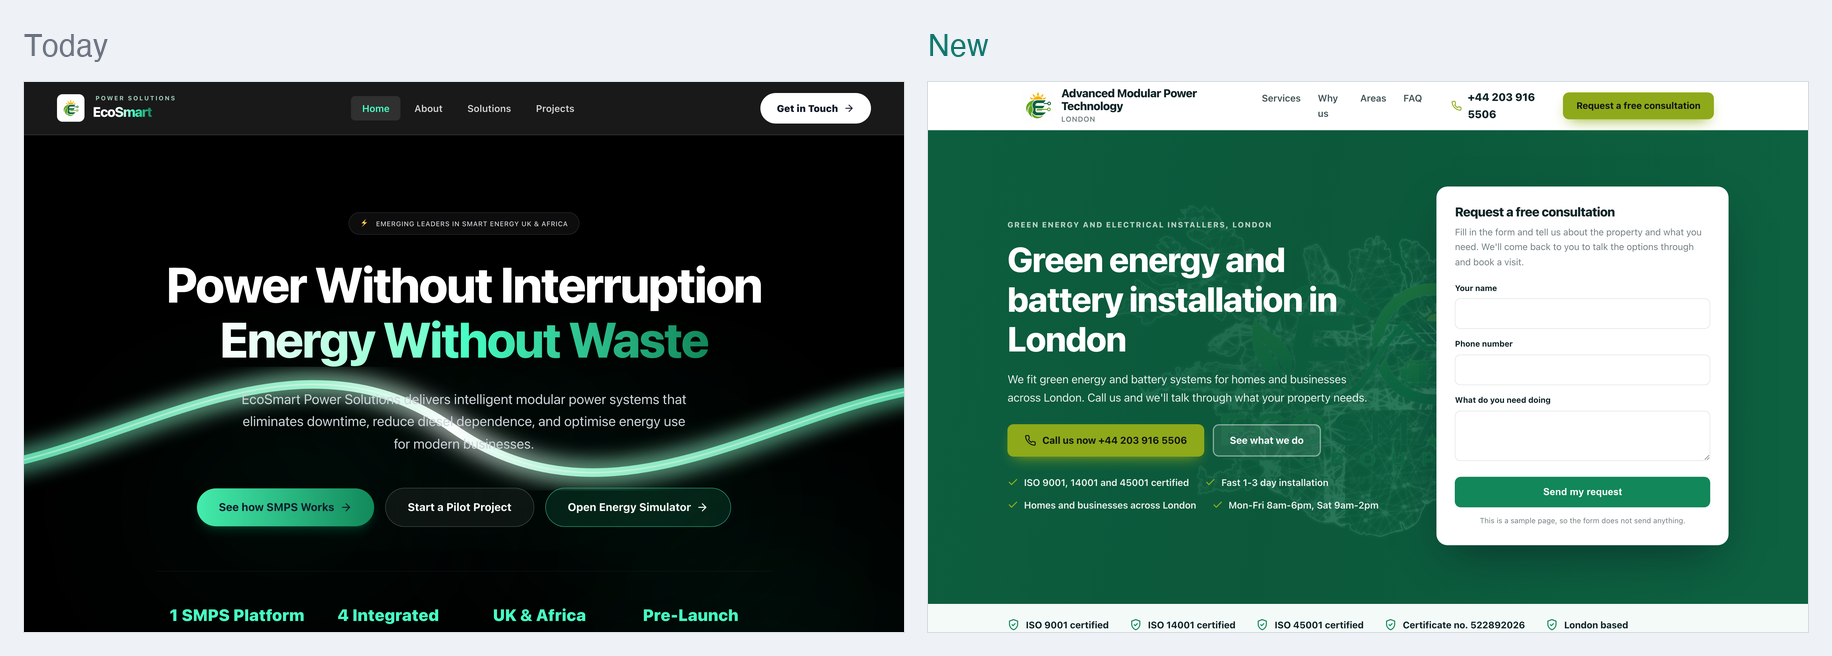
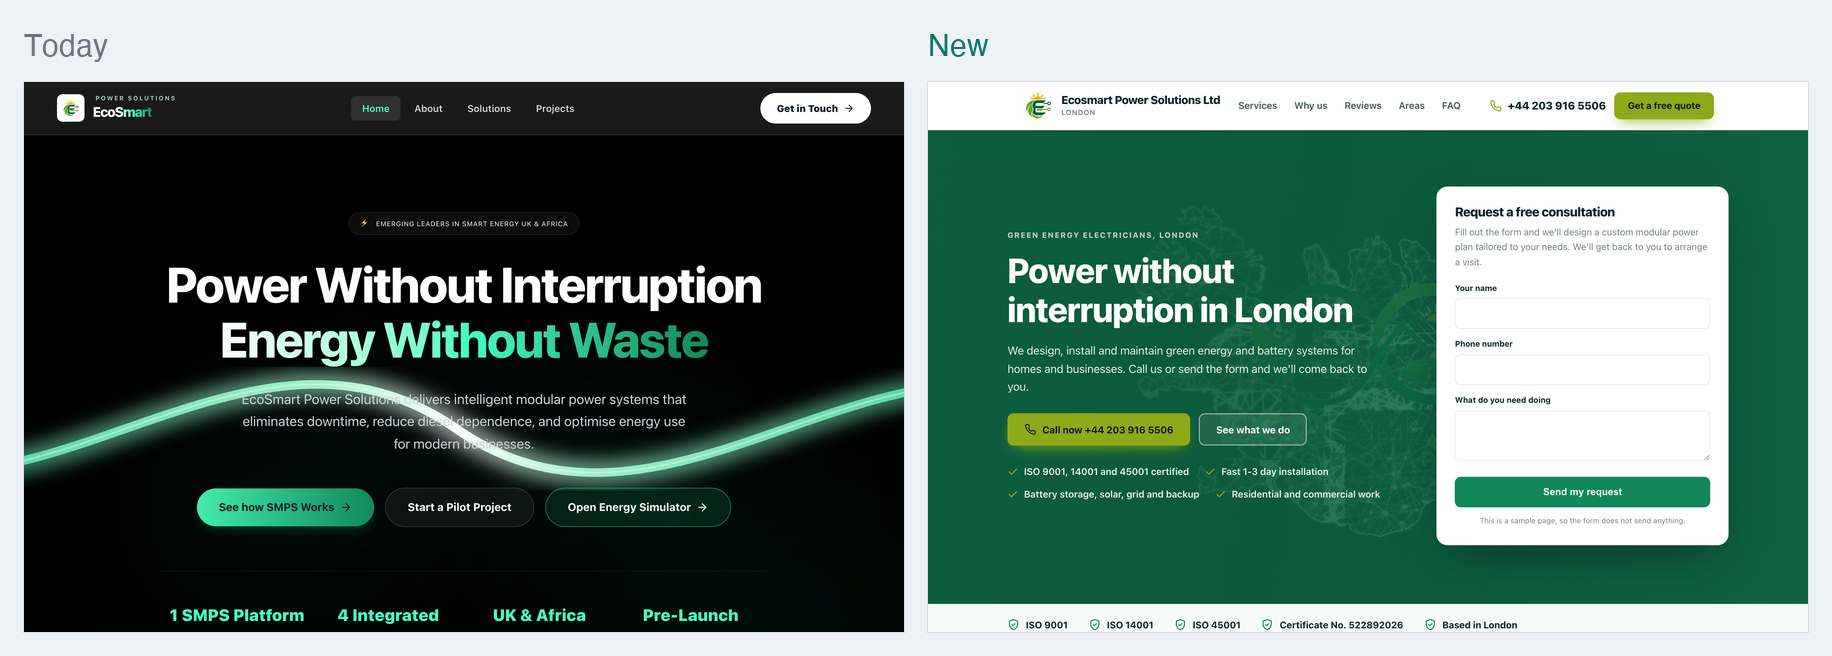
One page sample for Ecosmart Power Solutions Ltd

diff --git a/docs/e1da01168b/index.html b/docs/e1da01168b/index.html
@@ -4,14 +4,14 @@
 <meta charset="utf-8">
 <meta name="viewport" content="width=device-width, initial-scale=1">
 <meta name="robots" content="noindex,nofollow">
-<meta name="aso-build" content="bf8ed9482fcb">
-<title>Green Energy Installers London | EcoSmart Power</title>
-<meta name="description" content="EcoSmart installs green energy and battery systems for homes and businesses across London. ISO certified, with energy audits and maintenance work.">
+<meta name="aso-build" content="e527be55153c">
+<title>Electrical &amp; Green Energy, London | Ecosmart Power</title>
+<meta name="description" content="Ecosmart Power Solutions Ltd installs green energy, battery systems and modular power across London. ISO 9001, 14001 and 45001 certified. Call for a free">
 <link rel="canonical" href="https://markygff.github.io/aso-mockups/e1da01168b/">
 <meta property="og:type" content="website">
-<meta property="og:site_name" content="Advanced Modular Power Technology">
-<meta property="og:title" content="Green Energy Installers London | EcoSmart Power">
-<meta property="og:description" content="EcoSmart installs green energy and battery systems for homes and businesses across London. ISO certified, with energy audits and maintenance work.">
+<meta property="og:site_name" content="Ecosmart Power Solutions Ltd">
+<meta property="og:title" content="Electrical &amp; Green Energy, London | Ecosmart Power">
+<meta property="og:description" content="Ecosmart Power Solutions Ltd installs green energy, battery systems and modular power across London. ISO 9001, 14001 and 45001 certified. Call for a free">
 <meta property="og:url" content="https://markygff.github.io/aso-mockups/e1da01168b/">
 <meta property="og:image" content="img/p07.jpg"><meta name="twitter:card" content="summary_large_image">
 <style>
@@ -268,21 +268,21 @@ p{margin:0}
 <header class="header">
   <div class="wrap header-in">
     <div class="brand">
-<img src="img/logo.jpg" alt="Advanced Modular Power Technology logo">      <div>
-        <div class="brand-name">Advanced Modular Power Technology</div>
+<img src="img/logo.jpg" alt="Ecosmart Power Solutions Ltd logo">      <div>
+        <div class="brand-name">Ecosmart Power Solutions Ltd</div>
 <div class="brand-sub">London</div>      </div>
     </div>
     <nav class="nav">
       <a href="#services">Services</a>
       <a href="#why">Why us</a>
-      <a href="#areas">Areas</a>
+<a href="#reviews">Reviews</a>      <a href="#areas">Areas</a>
       <a href="#faq">FAQ</a>
     </nav>
     <div class="header-cta">
       <a class="tel" href="tel:+442039165506">
         <svg viewBox="0 0 24 24" fill="none" stroke="currentColor" stroke-width="2" stroke-linecap="round" stroke-linejoin="round" aria-hidden="true"><path d="M22 16.9v3a2 2 0 0 1-2.2 2 19.8 19.8 0 0 1-8.6-3.1 19.5 19.5 0 0 1-6-6 19.8 19.8 0 0 1-3.1-8.7A2 2 0 0 1 4.1 2h3a2 2 0 0 1 2 1.7c.1 1 .4 1.9.7 2.8a2 2 0 0 1-.5 2.1L8.1 9.9a16 16 0 0 0 6 6l1.3-1.2a2 2 0 0 1 2.1-.5c.9.3 1.8.6 2.8.7a2 2 0 0 1 1.7 2z"/></svg><span>+44 203 916 5506</span>
       </a>
-      <a class="btn btn-accent" href="#quote">Request a free consultation</a>
+      <a class="btn btn-accent" href="#quote">Get a free quote</a>
     </div>
   </div>
 </header>
@@ -291,19 +291,19 @@ p{margin:0}
   <div class="hero-bg"><img src="img/p07.jpg" alt="Europe Operations" width="1600" height="900"></div>
   <div class="wrap hero-in">
     <div>
-      <p class="eyebrow">Green energy and electrical installers, London</p>
-      <h1>Green energy and battery installation in London</h1>
-      <p class="hero-sub">We fit green energy and battery systems for homes and businesses across London. Call us and we&#39;ll talk through what your property needs.</p>
+      <p class="eyebrow">Green energy electricians, London</p>
+      <h1>Power without interruption in London</h1>
+      <p class="hero-sub">We design, install and maintain green energy and battery systems for homes and businesses. Call us or send the form and we&#39;ll come back to you.</p>
       <div class="hero-actions">
-        <a class="btn btn-accent" href="tel:+442039165506"><svg viewBox="0 0 24 24" fill="none" stroke="currentColor" stroke-width="2" stroke-linecap="round" stroke-linejoin="round" aria-hidden="true"><path d="M22 16.9v3a2 2 0 0 1-2.2 2 19.8 19.8 0 0 1-8.6-3.1 19.5 19.5 0 0 1-6-6 19.8 19.8 0 0 1-3.1-8.7A2 2 0 0 1 4.1 2h3a2 2 0 0 1 2 1.7c.1 1 .4 1.9.7 2.8a2 2 0 0 1-.5 2.1L8.1 9.9a16 16 0 0 0 6 6l1.3-1.2a2 2 0 0 1 2.1-.5c.9.3 1.8.6 2.8.7a2 2 0 0 1 1.7 2z"/></svg>Call us now +44 203 916 5506</a>
+        <a class="btn btn-accent" href="tel:+442039165506"><svg viewBox="0 0 24 24" fill="none" stroke="currentColor" stroke-width="2" stroke-linecap="round" stroke-linejoin="round" aria-hidden="true"><path d="M22 16.9v3a2 2 0 0 1-2.2 2 19.8 19.8 0 0 1-8.6-3.1 19.5 19.5 0 0 1-6-6 19.8 19.8 0 0 1-3.1-8.7A2 2 0 0 1 4.1 2h3a2 2 0 0 1 2 1.7c.1 1 .4 1.9.7 2.8a2 2 0 0 1-.5 2.1L8.1 9.9a16 16 0 0 0 6 6l1.3-1.2a2 2 0 0 1 2.1-.5c.9.3 1.8.6 2.8.7a2 2 0 0 1 1.7 2z"/></svg>Call now +44 203 916 5506</a>
         <a class="btn btn-ghost" href="#services">See what we do</a>
       </div>
       <ul class="hero-bullets">
-<li><svg viewBox="0 0 24 24" fill="none" stroke="currentColor" stroke-width="2.4" stroke-linecap="round" stroke-linejoin="round" aria-hidden="true"><path d="M20 6 9 17l-5-5"/></svg><span>ISO 9001, 14001 and 45001 certified</span></li><li><svg viewBox="0 0 24 24" fill="none" stroke="currentColor" stroke-width="2.4" stroke-linecap="round" stroke-linejoin="round" aria-hidden="true"><path d="M20 6 9 17l-5-5"/></svg><span>Fast 1-3 day installation</span></li><li><svg viewBox="0 0 24 24" fill="none" stroke="currentColor" stroke-width="2.4" stroke-linecap="round" stroke-linejoin="round" aria-hidden="true"><path d="M20 6 9 17l-5-5"/></svg><span>Homes and businesses across London</span></li><li><svg viewBox="0 0 24 24" fill="none" stroke="currentColor" stroke-width="2.4" stroke-linecap="round" stroke-linejoin="round" aria-hidden="true"><path d="M20 6 9 17l-5-5"/></svg><span>Mon-Fri 8am-6pm, Sat 9am-2pm</span></li>      </ul>
+<li><svg viewBox="0 0 24 24" fill="none" stroke="currentColor" stroke-width="2.4" stroke-linecap="round" stroke-linejoin="round" aria-hidden="true"><path d="M20 6 9 17l-5-5"/></svg><span>ISO 9001, 14001 and 45001 certified</span></li><li><svg viewBox="0 0 24 24" fill="none" stroke="currentColor" stroke-width="2.4" stroke-linecap="round" stroke-linejoin="round" aria-hidden="true"><path d="M20 6 9 17l-5-5"/></svg><span>Fast 1-3 day installation</span></li><li><svg viewBox="0 0 24 24" fill="none" stroke="currentColor" stroke-width="2.4" stroke-linecap="round" stroke-linejoin="round" aria-hidden="true"><path d="M20 6 9 17l-5-5"/></svg><span>Battery storage, solar, grid and backup</span></li><li><svg viewBox="0 0 24 24" fill="none" stroke="currentColor" stroke-width="2.4" stroke-linecap="round" stroke-linejoin="round" aria-hidden="true"><path d="M20 6 9 17l-5-5"/></svg><span>Residential and commercial work</span></li>      </ul>
     </div>
     <div class="quote-card" id="quote">
       <h3>Request a free consultation</h3>
-      <p class="lead">Fill in the form and tell us about the property and what you need. We&#39;ll come back to you to talk the options through and book a visit.</p>
+      <p class="lead">Fill out the form and we&#39;ll design a custom modular power plan tailored to your needs. We&#39;ll get back to you to arrange a visit.</p>
       <form action="#" onsubmit="return false" novalidate>
         <div class="field"><label for="h-name">Your name</label>
           <input id="h-name" name="name" type="text" autocomplete="name"></div>
@@ -320,11 +320,11 @@ p{margin:0}
 
 <div class="trust">
   <div class="wrap trust-in">
-    <div class="trust-item"><svg viewBox="0 0 24 24" fill="none" stroke="currentColor" stroke-width="2" stroke-linecap="round" stroke-linejoin="round" aria-hidden="true"><path d="M12 2 4 5v6c0 5 3.4 9.4 8 11 4.6-1.6 8-6 8-11V5z"/><path d="m9 12 2 2 4-4"/></svg><span>ISO 9001 certified</span></div>
-    <div class="trust-item"><svg viewBox="0 0 24 24" fill="none" stroke="currentColor" stroke-width="2" stroke-linecap="round" stroke-linejoin="round" aria-hidden="true"><path d="M12 2 4 5v6c0 5 3.4 9.4 8 11 4.6-1.6 8-6 8-11V5z"/><path d="m9 12 2 2 4-4"/></svg><span>ISO 14001 certified</span></div>
-    <div class="trust-item"><svg viewBox="0 0 24 24" fill="none" stroke="currentColor" stroke-width="2" stroke-linecap="round" stroke-linejoin="round" aria-hidden="true"><path d="M12 2 4 5v6c0 5 3.4 9.4 8 11 4.6-1.6 8-6 8-11V5z"/><path d="m9 12 2 2 4-4"/></svg><span>ISO 45001 certified</span></div>
-    <div class="trust-item"><svg viewBox="0 0 24 24" fill="none" stroke="currentColor" stroke-width="2" stroke-linecap="round" stroke-linejoin="round" aria-hidden="true"><path d="M12 2 4 5v6c0 5 3.4 9.4 8 11 4.6-1.6 8-6 8-11V5z"/><path d="m9 12 2 2 4-4"/></svg><span>Certificate no. 522892026</span></div>
-    <div class="trust-item"><svg viewBox="0 0 24 24" fill="none" stroke="currentColor" stroke-width="2" stroke-linecap="round" stroke-linejoin="round" aria-hidden="true"><path d="M12 2 4 5v6c0 5 3.4 9.4 8 11 4.6-1.6 8-6 8-11V5z"/><path d="m9 12 2 2 4-4"/></svg><span>London based</span></div>
+    <div class="trust-item"><svg viewBox="0 0 24 24" fill="none" stroke="currentColor" stroke-width="2" stroke-linecap="round" stroke-linejoin="round" aria-hidden="true"><path d="M12 2 4 5v6c0 5 3.4 9.4 8 11 4.6-1.6 8-6 8-11V5z"/><path d="m9 12 2 2 4-4"/></svg><span>ISO 9001</span></div>
+    <div class="trust-item"><svg viewBox="0 0 24 24" fill="none" stroke="currentColor" stroke-width="2" stroke-linecap="round" stroke-linejoin="round" aria-hidden="true"><path d="M12 2 4 5v6c0 5 3.4 9.4 8 11 4.6-1.6 8-6 8-11V5z"/><path d="m9 12 2 2 4-4"/></svg><span>ISO 14001</span></div>
+    <div class="trust-item"><svg viewBox="0 0 24 24" fill="none" stroke="currentColor" stroke-width="2" stroke-linecap="round" stroke-linejoin="round" aria-hidden="true"><path d="M12 2 4 5v6c0 5 3.4 9.4 8 11 4.6-1.6 8-6 8-11V5z"/><path d="m9 12 2 2 4-4"/></svg><span>ISO 45001</span></div>
+    <div class="trust-item"><svg viewBox="0 0 24 24" fill="none" stroke="currentColor" stroke-width="2" stroke-linecap="round" stroke-linejoin="round" aria-hidden="true"><path d="M12 2 4 5v6c0 5 3.4 9.4 8 11 4.6-1.6 8-6 8-11V5z"/><path d="m9 12 2 2 4-4"/></svg><span>Certificate No. 522892026</span></div>
+    <div class="trust-item"><svg viewBox="0 0 24 24" fill="none" stroke="currentColor" stroke-width="2" stroke-linecap="round" stroke-linejoin="round" aria-hidden="true"><path d="M12 2 4 5v6c0 5 3.4 9.4 8 11 4.6-1.6 8-6 8-11V5z"/><path d="m9 12 2 2 4-4"/></svg><span>Based in London</span></div>
   </div>
 </div>
 
@@ -332,45 +332,45 @@ p{margin:0}
   <div class="wrap">
     <div class="section-head">
       <p class="eyebrow">What we do</p>
-      <h2>Electrical and green energy services in London</h2>
-      <p>We cover the whole job, from the first energy audit through to installation and the maintenance after it. Here&#39;s what we do.</p>
+      <h2>Our electrical and green energy work</h2>
+      <p>We cover green energy installation, battery storage, audits and maintenance for homes and businesses in London. Here&#39;s what we do.</p>
     </div>
     <div class="grid grid-3">
       <article class="card card-photo">
         <img src="img/p08.jpg" alt="Africa Operations" width="600" height="380" loading="lazy">
         <div class="card-body">
           <h3>Residential Green Energy Installation</h3>
-          <p>Green energy and battery kit fitted at home, whether that&#39;s a new build or an older property that needs bringing up to date.</p>
+          <p>Green energy fitted at home, from first survey to commissioning. Good if you want lower bills and power that holds up when the grid drops.</p>
         </div>
       </article>
       <article class="card card-photo">
         <img src="img/p09.jpg" alt="Founder 1" width="600" height="380" loading="lazy">
         <div class="card-body">
           <h3>Commercial Green Energy Solutions</h3>
-          <p>Green energy work for offices, hotels, clinics and cold storage sites that can&#39;t afford to lose power.</p>
+          <p>Green energy for offices, clinics, hotels, cold storage and other sites that can&#39;t afford to go dark during the working day.</p>
         </div>
       </article>
       <article class="card card-photo">
         <img src="img/p02.jpg" alt="Smart Energy Integration" width="600" height="380" loading="lazy">
         <div class="card-body">
           <h3>Green Energy Battery Systems</h3>
-          <p>Battery storage that holds power for when you need it, so you&#39;re covered when the grid drops out.</p>
+          <p>Battery storage sized to your building, so you keep power during an outage and use less from the grid at peak times.</p>
         </div>
       </article>
       <article class="card">
         <div class="icon"><svg viewBox="0 0 24 24" fill="none" stroke="currentColor" stroke-width="2" stroke-linecap="round" stroke-linejoin="round" aria-hidden="true"><path d="M4 20 15 9"/><path d="m14 4 6 6-3 3-6-6z"/><path d="m3 15 6 6"/></svg></div>
         <h3>Energy Audits</h3>
-        <p>We go through how your building uses energy and where it&#39;s being wasted, then tell you what&#39;s worth changing.</p>
+        <p>We look at how your building uses power, where it&#39;s wasted and what a change would actually save you before you spend anything.</p>
       </article>
       <article class="card">
         <div class="icon"><svg viewBox="0 0 24 24" fill="none" stroke="currentColor" stroke-width="2" stroke-linecap="round" stroke-linejoin="round" aria-hidden="true"><path d="M12 3s5 4.2 5 9a5 5 0 0 1-10 0c0-1.8.8-3.2 1.6-4.2.3 1 1 1.9 1.9 2.3C11 8.4 10.7 5.6 12 3z"/></svg></div>
         <h3>Maintainance Works</h3>
-        <p>We service, monitor and repair the system once it&#39;s in, so small faults get sorted before they stop the power.</p>
+        <p>Servicing and repairs on installed systems, so batteries, controls and switching keep working the way they should.</p>
       </article>
       <article class="card">
         <div class="icon"><svg viewBox="0 0 24 24" fill="none" stroke="currentColor" stroke-width="2" stroke-linecap="round" stroke-linejoin="round" aria-hidden="true"><path d="M2 7h11v10H2z"/><path d="M13 10h4l4 3.5V17h-8z"/><circle cx="6" cy="18" r="2"/><circle cx="17" cy="18" r="2"/></svg></div>
         <h3>Fast 1-3 Day Installation</h3>
-        <p>Most installs are set up to run over 1 to 3 days. Ask us what that means for your job before you book anything in.</p>
+        <p>Most installs are done in one to three days, so your home or site is back to normal quickly.</p>
       </article>
     </div>
   </div>
@@ -380,48 +380,62 @@ p{margin:0}
   <div class="wrap">
     <div class="section-head">
       <p class="eyebrow">Why us</p>
-      <h2>Why choose EcoSmart</h2>
+      <h2>Why choose Ecosmart</h2>
     </div>
     <div class="grid grid-2">
       <div class="why-item">
         <div class="why-badge">1</div>
         <div>
-          <h3>ISO certified work</h3>
-          <p>We&#39;re certified to ISO 9001:2015, ISO 14001:2015 and ISO 45001:2018 by Citation ISO Certification Limited, certificate number 522892026.</p>
+          <h3>Certified to three ISO standards</h3>
+          <p>ISO 9001, ISO 14001 and ISO 45001, covering design, installation, commissioning, monitoring and maintenance.</p>
         </div>
       </div>
       <div class="why-item">
         <div class="why-badge">2</div>
         <div>
-          <h3>Modular design</h3>
-          <p>Systems expand as your power needs grow, so you can add capacity later instead of ripping the job out and starting again.</p>
+          <h3>Power that keeps running</h3>
+          <p>Our systems switch automatically between grid, battery, generator and solar, so you don&#39;t lose power when the grid does.</p>
         </div>
       </div>
       <div class="why-item">
         <div class="why-badge">3</div>
         <div>
-          <h3>Less diesel, lower bills</h3>
-          <p>The point of the work is to cut your reliance on diesel generators, bring energy costs down and reduce emissions.</p>
+          <h3>Built to grow</h3>
+          <p>Modular design means you can add capacity later instead of starting again when your power needs change.</p>
         </div>
       </div>
       <div class="why-item">
         <div class="why-badge">4</div>
         <div>
-          <h3>One team for the whole job</h3>
-          <p>Design, integration, installation, commissioning, monitoring and maintenance all sit with the same team.</p>
+          <h3>Less diesel, lower bills</h3>
+          <p>We cut how much you lean on diesel generators and help you use less energy overall.</p>
         </div>
       </div>
     </div>
   </div>
 </section>
 
+<section class="section" id="reviews">
+  <div class="wrap">
+    <div class="section-head">
+      <p class="eyebrow">In their words</p>
+      <h2>What we stand for</h2>
+    </div>
+    <div class="grid grid-2">
+      <div class="quote-block">
+        <div class="stars">★★★★★</div>
+        <blockquote>To provide smart, reliable, and sustainable energy solutions that empower businesses and communities worldwide.</blockquote>
+<div class="who">Our Story</div>      </div>
+    </div>
+  </div>
+</section>
 
 <section class="section areas" id="areas">
   <div class="wrap">
     <div class="section-head">
       <p class="eyebrow">Where we work</p>
-      <h2>Areas we cover across London</h2>
-      <p>We work across London, on homes and on commercial buildings. Tell us your postcode and we&#39;ll say what we can do for you.</p>
+      <h2>Green energy installers across London</h2>
+      <p>We work with homes and businesses across London. If you&#39;re not sure whether we reach you, give us a call and ask.</p>
     </div>
     <ul class="area-list">
 <li>London</li>    </ul>
@@ -435,24 +449,24 @@ p{margin:0}
       <h2>Common questions</h2>
     </div>
     <div class="faq-item">
-      <h3><span>Q.</span>Do you cover my area in London?</h3>
-      <p>Yes. We work across London on residential and commercial jobs. Give us a call or send the form with your postcode and we&#39;ll confirm we can get to you.</p>
+      <h3><span>Q.</span>How quickly can you install a green energy or battery system?</h3>
+      <p>Most installations take one to three days on site. Timings depend on the survey and the system you need, so call or send the form and we&#39;ll tell you what yours involves.</p>
     </div>
     <div class="faq-item">
-      <h3><span>Q.</span>How quickly can you install a system?</h3>
-      <p>We offer fast 1-3 day installation. The timing depends on the size of the job and the site, so call us and we&#39;ll give you a date before you commit to anything.</p>
+      <h3><span>Q.</span>What areas of London do you cover?</h3>
+      <p>We cover London and we&#39;re based in Ruislip. If you&#39;re outside London, call us and we&#39;ll tell you honestly whether we can take the job.</p>
     </div>
     <div class="faq-item">
       <h3><span>Q.</span>Do you give free quotes?</h3>
-      <p>Yes. You can request a free consultation through the form on this page. We&#39;ll go through what your home or business needs and what the work involves.</p>
+      <p>Yes. Fill in the form and we&#39;ll design a power plan for your property and come back to you with a free consultation. There&#39;s no charge for the conversation.</p>
     </div>
     <div class="faq-item">
       <h3><span>Q.</span>Are you certified?</h3>
-      <p>We&#39;re certified to ISO 9001:2015, ISO 14001:2015 and ISO 45001:2018 by Citation ISO Certification Limited under certificate number 522892026. That covers design, installation, commissioning, monitoring and maintenance.</p>
+      <p>Yes. Ecosmart Power Solutions Ltd is certified to ISO 9001:2015, ISO 14001:2015 and ISO 45001:2018, certificate number 522892026, certified by Citation ISO Certification Limited.</p>
     </div>
     <div class="faq-item">
-      <h3><span>Q.</span>What are your opening hours?</h3>
-      <p>We&#39;re open Monday to Friday, 8am to 6pm, and Saturday from 9am to 2pm. Send the form outside those hours and we&#39;ll come back to you as soon as we open.</p>
+      <h3><span>Q.</span>What happens on the first visit?</h3>
+      <p>We look at how your building uses power and what you need it to do. That&#39;s the energy audit. From there we design a system for your building and explain what it covers.</p>
     </div>
   </div>
 </section>
@@ -462,7 +476,7 @@ p{margin:0}
     <div>
       <p class="eyebrow">Get in touch</p>
       <h2 style="font-size:clamp(1.75rem,3.2vw,2.4rem);margin-bottom:14px">Request a free consultation</h2>
-      <p style="color:var(--muted);font-size:1.06rem">Fill in the form and tell us about the property and what you need. We&#39;ll come back to you to talk the options through and book a visit.</p>
+      <p style="color:var(--muted);font-size:1.06rem">Fill out the form and we&#39;ll design a custom modular power plan tailored to your needs. We&#39;ll get back to you to arrange a visit.</p>
       <div class="contact-facts">
         <div class="fact-row"><svg viewBox="0 0 24 24" fill="none" stroke="currentColor" stroke-width="2" stroke-linecap="round" stroke-linejoin="round" aria-hidden="true"><path d="M22 16.9v3a2 2 0 0 1-2.2 2 19.8 19.8 0 0 1-8.6-3.1 19.5 19.5 0 0 1-6-6 19.8 19.8 0 0 1-3.1-8.7A2 2 0 0 1 4.1 2h3a2 2 0 0 1 2 1.7c.1 1 .4 1.9.7 2.8a2 2 0 0 1-.5 2.1L8.1 9.9a16 16 0 0 0 6 6l1.3-1.2a2 2 0 0 1 2.1-.5c.9.3 1.8.6 2.8.7a2 2 0 0 1 1.7 2z"/></svg><div><strong>Phone</strong>
           <a href="tel:+442039165506">+44 203 916 5506</a></div></div>
@@ -501,8 +515,8 @@ p{margin:0}
   <div class="wrap">
     <div class="footer-in">
       <div>
-        <div class="footer-brand">Advanced Modular Power Technology</div>
-        <p>Green energy, battery and maintenance work for homes and businesses across London.</p>
+        <div class="footer-brand">Ecosmart Power Solutions Ltd</div>
+        <p>Green energy installation, battery systems and maintenance for homes and businesses across London.</p>
 <p style="margin-top:14px"><a href="tel:+442039165506">+44 203 916 5506</a></p>      </div>
       <div>
         <h4>Services</h4>
@@ -514,7 +528,7 @@ p{margin:0}
       </div>
     </div>
     <div class="footer-note">
-      <span>Sample built for Advanced Modular Power Technology from your public website. Not live. Tell us and we delete it.</span>
+      <span>Sample built for Ecosmart Power Solutions Ltd from your public website. Not live. Tell us and we delete it.</span>
       <span>ecosmartpowersolutions.co.uk</span>
     </div>
   </div>
@@ -524,9 +538,9 @@ p{margin:0}
   {
     "@context": "https://schema.org",
     "@type": "Electrician",
-    "name": "Advanced Modular Power Technology",
+    "name": "Ecosmart Power Solutions Ltd",
     "url": "https://markygff.github.io/aso-mockups/e1da01168b/",
-    "description": "EcoSmart installs green energy and battery systems for homes and businesses across London. ISO certified, with energy audits and maintenance work.",
+    "description": "Ecosmart Power Solutions Ltd installs green energy, battery systems and modular power across London. ISO 9001, 14001 and 45001 certified. Call for a free",
     "telephone": "+44 203 916 5506",
     "email": "info@ecosmartpowersolutions.co.uk",
     "address": {
@@ -594,18 +608,18 @@ p{margin:0}
     "mainEntity": [
       {
         "@type": "Question",
-        "name": "Do you cover my area in London?",
+        "name": "How quickly can you install a green energy or battery system?",
         "acceptedAnswer": {
           "@type": "Answer",
-          "text": "Yes. We work across London on residential and commercial jobs. Give us a call or send the form with your postcode and we'll confirm we can get to you."
+          "text": "Most installations take one to three days on site. Timings depend on the survey and the system you need, so call or send the form and we'll tell you what yours involves."
         }
       },
       {
         "@type": "Question",
-        "name": "How quickly can you install a system?",
+        "name": "What areas of London do you cover?",
         "acceptedAnswer": {
           "@type": "Answer",
-          "text": "We offer fast 1-3 day installation. The timing depends on the size of the job and the site, so call us and we'll give you a date before you commit to anything."
+          "text": "We cover London and we're based in Ruislip. If you're outside London, call us and we'll tell you honestly whether we can take the job."
         }
       },
       {
@@ -613,7 +627,7 @@ p{margin:0}
         "name": "Do you give free quotes?",
         "acceptedAnswer": {
           "@type": "Answer",
-          "text": "Yes. You can request a free consultation through the form on this page. We'll go through what your home or business needs and what the work involves."
+          "text": "Yes. Fill in the form and we'll design a power plan for your property and come back to you with a free consultation. There's no charge for the conversation."
         }
       },
       {
@@ -621,15 +635,15 @@ p{margin:0}
         "name": "Are you certified?",
         "acceptedAnswer": {
           "@type": "Answer",
-          "text": "We're certified to ISO 9001:2015, ISO 14001:2015 and ISO 45001:2018 by Citation ISO Certification Limited under certificate number 522892026. That covers design, installation, commissioning, monitoring and maintenance."
+          "text": "Yes. Ecosmart Power Solutions Ltd is certified to ISO 9001:2015, ISO 14001:2015 and ISO 45001:2018, certificate number 522892026, certified by Citation ISO Certification Limited."
         }
       },
       {
         "@type": "Question",
-        "name": "What are your opening hours?",
+        "name": "What happens on the first visit?",
         "acceptedAnswer": {
           "@type": "Answer",
-          "text": "We're open Monday to Friday, 8am to 6pm, and Saturday from 9am to 2pm. Send the form outside those hours and we'll come back to you as soon as we open."
+          "text": "We look at how your building uses power and what you need it to do. That's the energy audit. From there we design a system for your building and explain what it covers."
         }
       }
     ]
